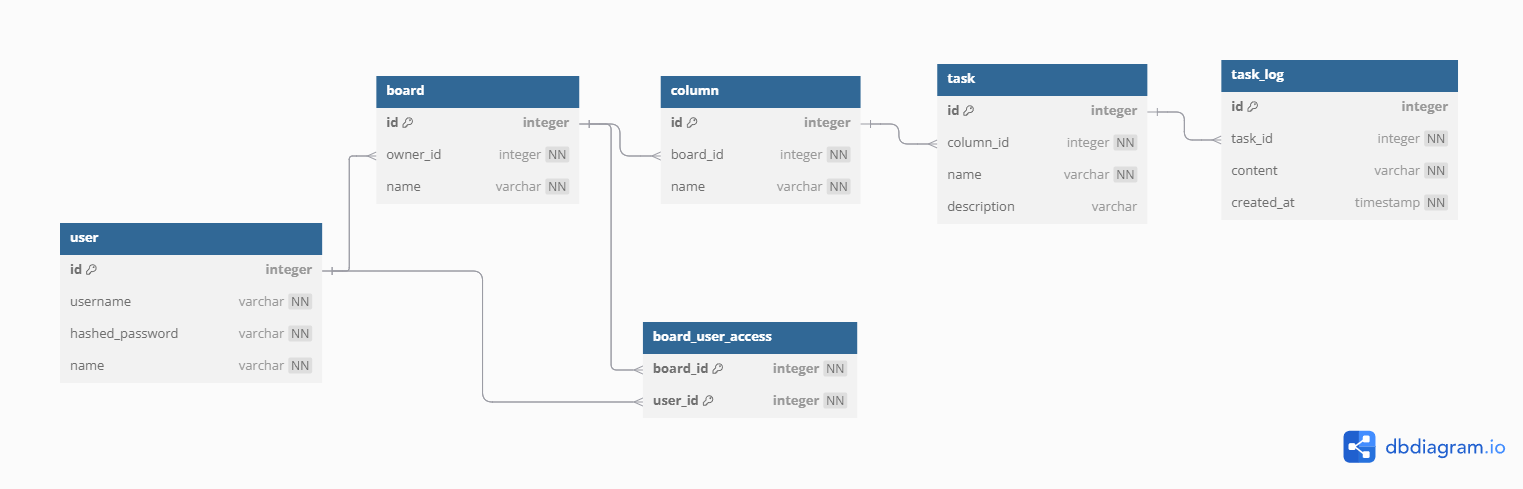
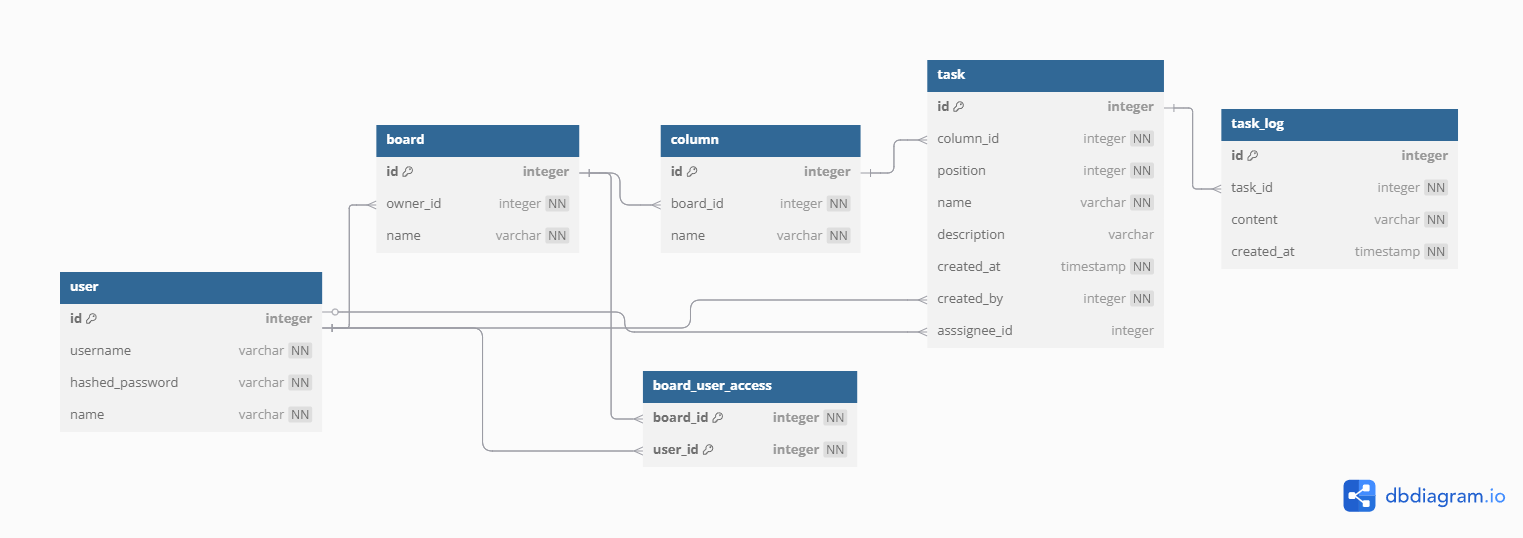
Update Tasks table, add tasks validation

diff --git a/api/routers/tasks.py b/api/routers/tasks.py
@@ -1,10 +1,37 @@
-from fastapi import APIRouter, status
-from sqlmodel import select
+from fastapi import APIRouter, HTTPException, status
+from sqlmodel import Session, select
 
 import api.db
 import api.dependencies
 
 router = APIRouter(tags=["tasks"])
+
+
+def validate_new_position(column: api.db.Column, new_position: int, session: Session):
+    if new_position < 0:
+        raise HTTPException(status.HTTP_409_CONFLICT, "Position must be greater or equal 0")
+
+    tasks = session.exec(
+        select(api.db.Task)
+        .where(api.db.Task.column_id == column.id)
+    ).all()
+
+    for task in tasks:
+        if task.position == new_position:
+            raise HTTPException(status.HTTP_409_CONFLICT, "This position is already taken")
+
+
+def validate_new_assignee(column: api.db.Column, assignee_id: int, session: Session):
+    assigned_user = session.get(api.db.User, assignee_id)
+    if assigned_user is None:
+        raise HTTPException(status.HTTP_409_CONFLICT, "This user doesn't exist")
+
+    board = session.get(api.db.Board, column.board_id)
+    if board is None:
+        raise HTTPException(status.HTTP_500_INTERNAL_SERVER_ERROR, "Internal Server Error")
+
+    if not api.dependencies.check_user_access(api.db.UserFromDB(**assigned_user.model_dump()), board):
+        raise HTTPException(status.HTTP_409_CONFLICT, "This user doesn't have access to this board")
 
 
 @router.get("/columns/{column_id}/tasks/", response_model=list[api.db.TaskPublic])
@@ -25,9 +52,14 @@ async def get_tasks(
 async def add_task(
     column: api.dependencies.ColumnDep,
     task_create: api.db.TaskCreate,
+    current_user: api.dependencies.CurrentUserDep,
     session: api.dependencies.SessionDep,
 ):
-    task = api.db.Task(column_id=column.id, **task_create.model_dump())
+    validate_new_position(column, task_create.position, session)
+    if task_create.assignee_id is not None:
+        validate_new_assignee(column, task_create.assignee_id, session)
+
+    task = api.db.Task(column_id=column.id, created_by=current_user.id, **task_create.model_dump())
     session.add(task)
     session.commit()
     session.refresh(task)
@@ -48,6 +80,15 @@ async def update_task(
     task_update: api.db.TaskUpdate,
     session: api.dependencies.SessionDep,
 ):
+    column = session.get(api.db.Column, task.column_id)
+    if column is None:
+        raise HTTPException(status.HTTP_500_INTERNAL_SERVER_ERROR, "Internal Server Error")
+
+    if task_update.position is not None:
+        validate_new_position(column, task_update.position, session)
+    if task_update.assignee_id is not None:
+        validate_new_assignee(column, task_update.assignee_id, session)
+
     task.sqlmodel_update(task_update.model_dump())
     session.add(task)
     session.commit()

diff --git a/api/db/models/task.py b/api/db/models/task.py
@@ -1,18 +1,26 @@
+from datetime import datetime
+
 from sqlmodel import Field, SQLModel
 
 
 class TaskBase(SQLModel):
+    position: int = Field()
     name: str = Field()
     description: str | None = Field()
+    assignee_id: int | None = Field(foreign_key="user.id")
 
 
 class Task(TaskBase, table=True):
     id: int | None = Field(default=None, primary_key=True)
-    column_id: int = Field(foreign_key="column.id")
+    column_id: int = Field(foreign_key="column.id", ondelete="CASCADE")
+    created_at: datetime = Field(default_factory=datetime.now)
+    created_by: int = Field(foreign_key="user.id")
 
 
 class TaskPublic(TaskBase):
     id: int
+    created_at: datetime
+    created_by: int
 
 
 class TaskCreate(TaskBase):
@@ -20,5 +28,7 @@ class TaskCreate(TaskBase):
 
 
 class TaskUpdate(SQLModel):
+    position: int | None = None
     name: str | None = None
     description: str | None = None
+    assignee_id: int | None = None

diff --git a/api/db/models/board_user_access.py b/api/db/models/board_user_access.py
@@ -2,5 +2,5 @@ from sqlmodel import Field, SQLModel
 
 
 class BoardUserAccess(SQLModel, table=True):
-    board_id: int = Field(foreign_key="board.id", primary_key=True)
+    board_id: int = Field(foreign_key="board.id", primary_key=True, ondelete="CASCADE")
     user_id: int = Field(foreign_key="user.id", primary_key=True)

diff --git a/api/db/models/task_log.py b/api/db/models/task_log.py
@@ -10,7 +10,7 @@ class TaskLogBase(SQLModel):
 
 class TaskLog(TaskLogBase, table=True):
     id: int | None = Field(default=None, primary_key=True)
-    task_id: int = Field(foreign_key="task.id")
+    task_id: int = Field(foreign_key="task.id", ondelete="CASCADE")
 
 
 class TaskLogPublic(TaskLogBase):

diff --git a/api/db/models/column.py b/api/db/models/column.py
@@ -8,7 +8,7 @@ class ColumnBase(SQLModel):
 
 class Column(ColumnBase, table=True):
     id: int | None = Field(default=None, primary_key=True)
-    board_id: int = Field(foreign_key="board.id")
+    board_id: int = Field(foreign_key="board.id", ondelete="CASCADE")
 
 
 class ColumnPublic(ColumnBase):
